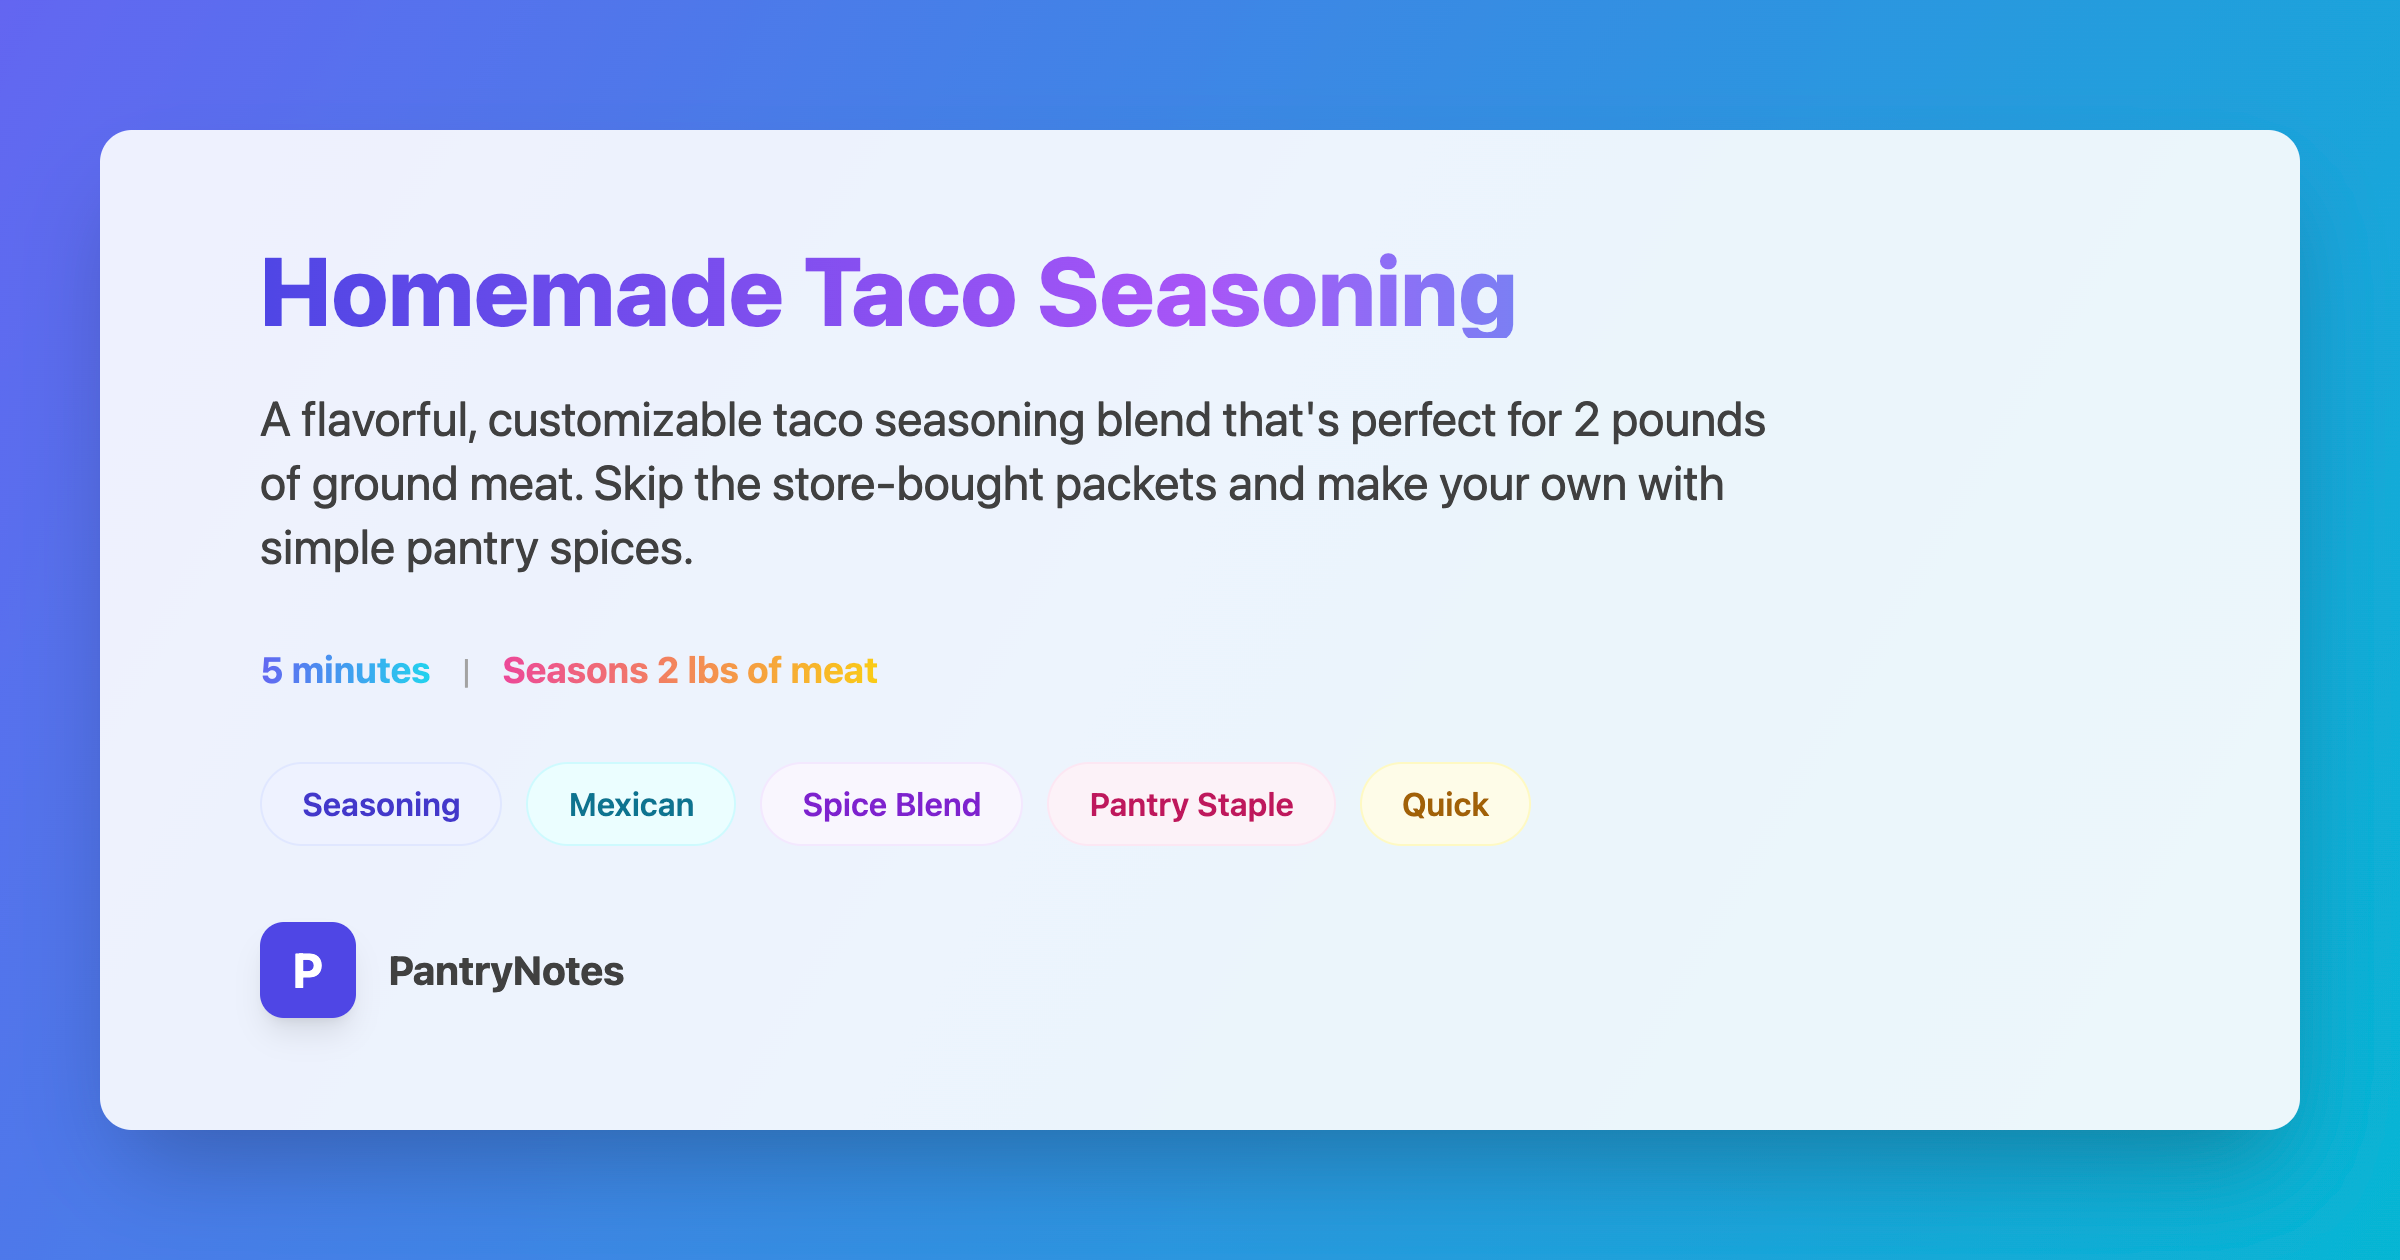
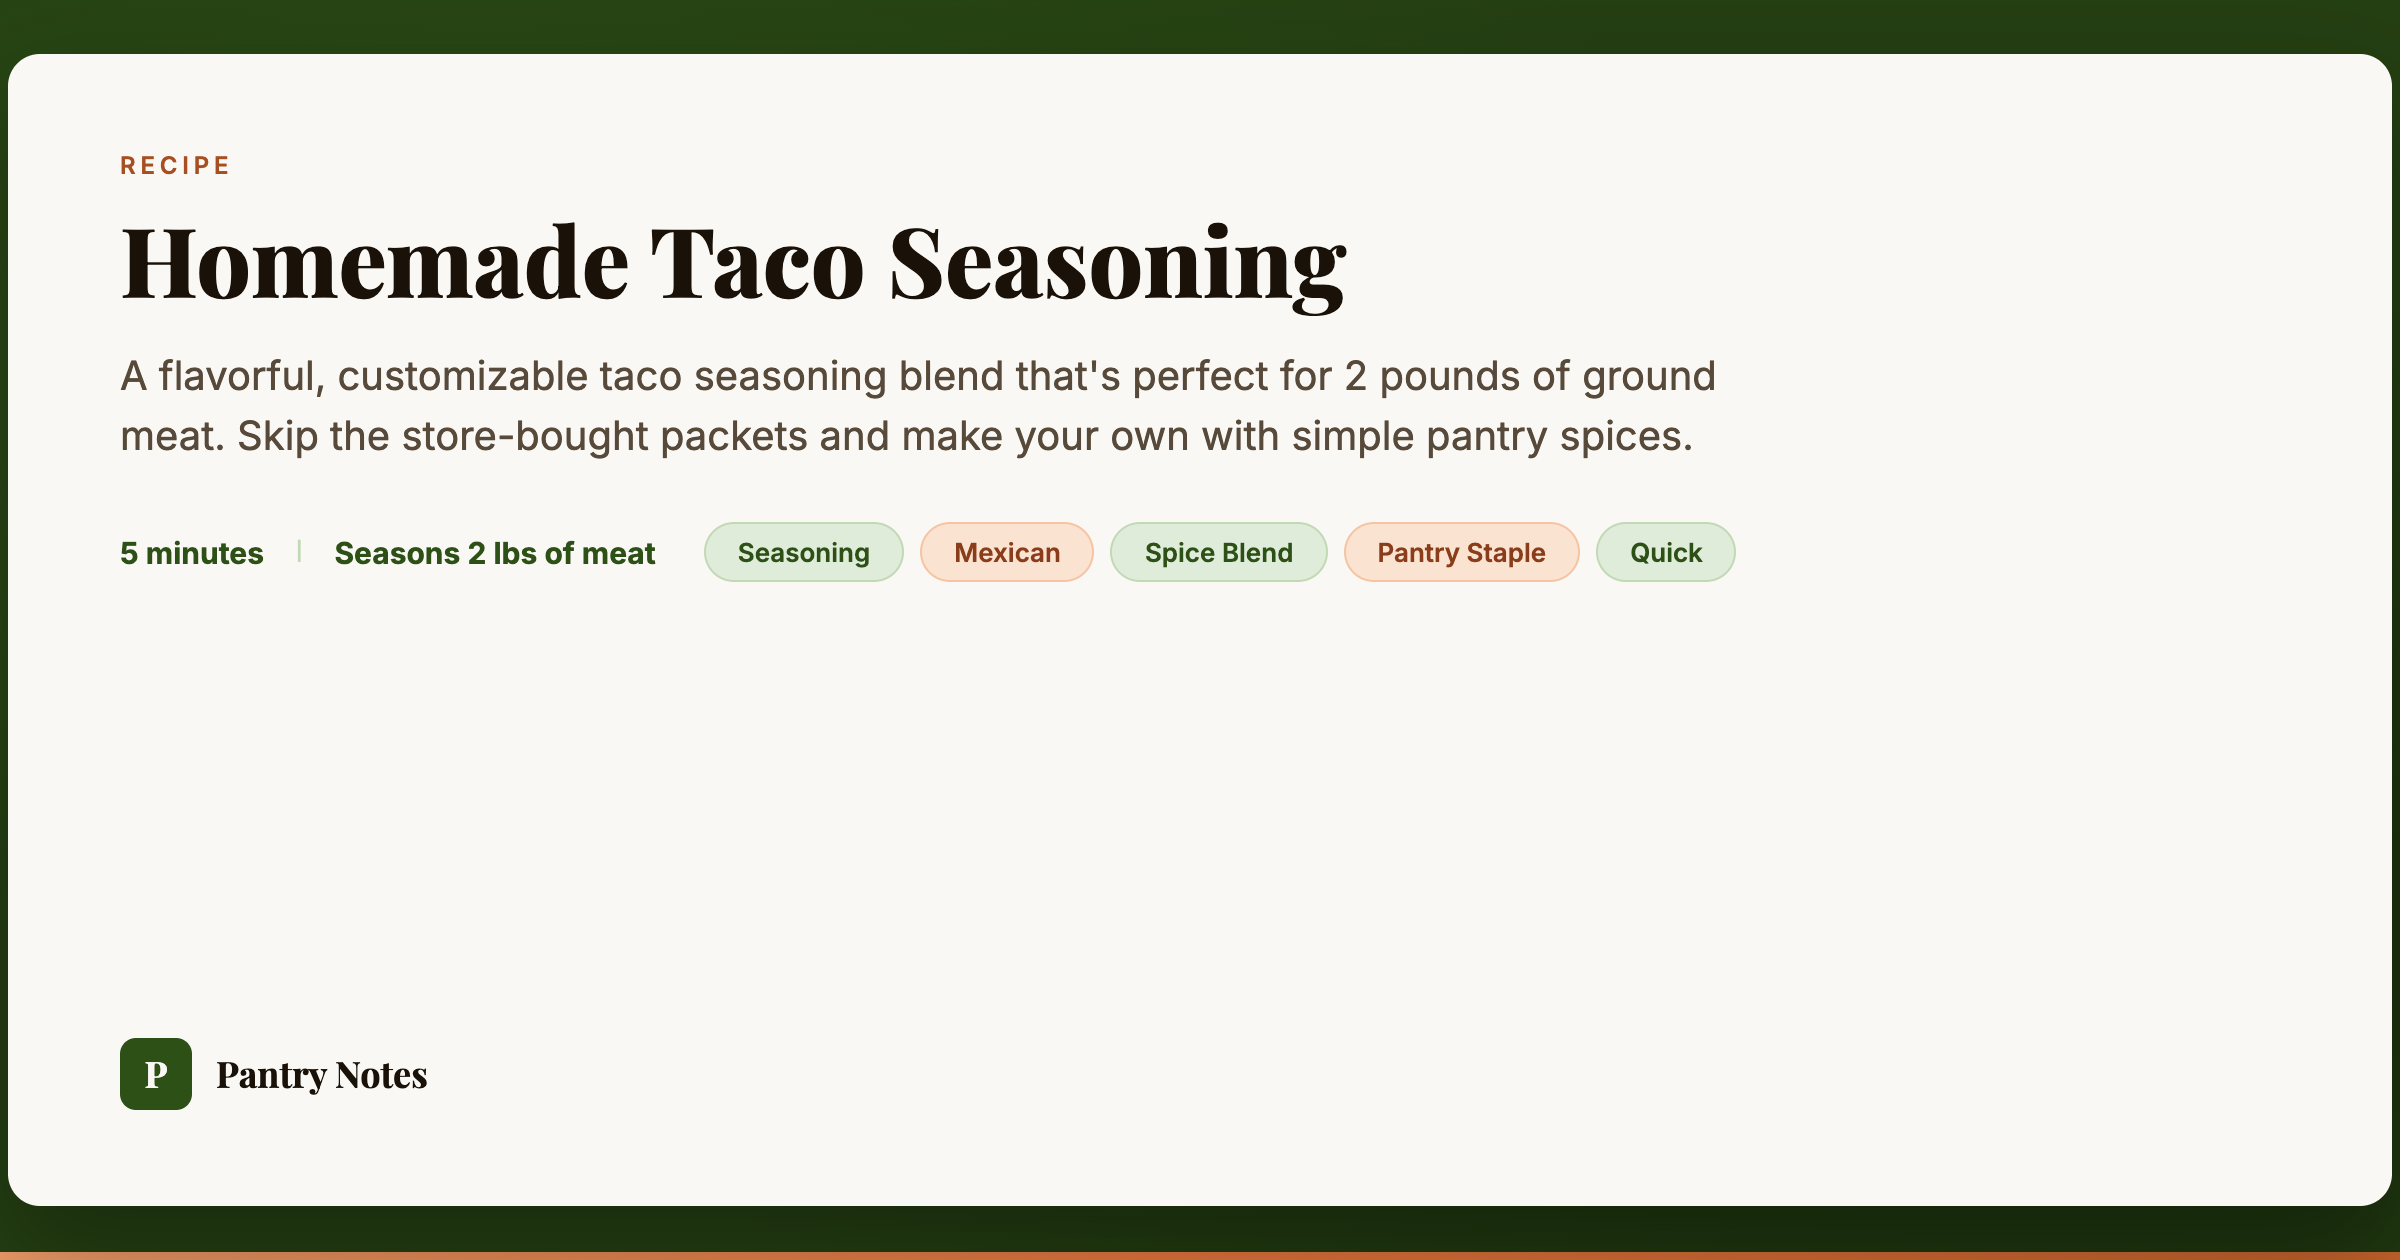
fix: update OG images to match warm forest green + terra theme
The social share preview images were using an old blue/indigo/cyan color
scheme. Redesigned both templates to use the site's forest green, cream,
and terra accent palette with Playfair Display typography.

diff --git a/recipe-preview-template.html b/recipe-preview-template.html
@@ -4,57 +4,79 @@
     <meta charset="UTF-8">
     <meta name="viewport" content="width=device-width, initial-scale=1.0">
     <title>Recipe OG Preview</title>
-    <script src="https://cdn.tailwindcss.com"></script>
+    <link rel="preconnect" href="https://fonts.googleapis.com">
+    <link rel="preconnect" href="https://fonts.gstatic.com" crossorigin>
+    <link href="https://fonts.googleapis.com/css2?family=Inter:wght@400;500;600;700&family=Playfair+Display:wght@700;800&display=swap" rel="stylesheet">
     <style>
-      body { margin: 0; }
+        body { margin: 0; }
     </style>
 </head>
 <body>
     <!-- OG Image Template - 1200x630px -->
-    <div class="flex items-center justify-center min-h-screen" style="width: 1200px; height: 630px; background: linear-gradient(120deg, #6366f1 0%, #06b6d4 100%);">
-        <div class="bg-white/90 rounded-2xl shadow-2xl w-[1100px] h-[500px] flex flex-col justify-center px-20 py-14">
+    <div style="width: 1200px; height: 630px; background-color: #243f12; display: flex; align-items: center; justify-content: center; position: relative; overflow: hidden;">
+        <!-- Subtle background accents -->
+        <div style="position: absolute; inset: 0; background: radial-gradient(ellipse at 20% 30%, rgba(45,80,22,0.8) 0%, transparent 50%), radial-gradient(ellipse at 85% 75%, rgba(15,30,7,0.5) 0%, transparent 50%);"></div>
+
+        <!-- Card -->
+        <div style="position: relative; z-index: 1; background-color: #faf8f5; border-radius: 16px; width: 1080px; min-height: 480px; padding: 48px 56px; display: flex; flex-direction: column; justify-content: center; box-shadow: 0 25px 50px rgba(0,0,0,0.3);">
+            <!-- Recipe label -->
+            <p style="font-family: 'Inter', sans-serif; font-size: 12px; font-weight: 600; text-transform: uppercase; letter-spacing: 0.2em; color: #a84f22; margin: 0 0 12px 0;">
+                Recipe
+            </p>
+
             <!-- Title -->
-            <h1 id="recipe-title" class="text-5xl font-extrabold mb-6 bg-gradient-to-r from-indigo-600 via-purple-500 to-cyan-400 bg-clip-text text-transparent">
+            <h1 id="recipe-title" style="font-family: 'Playfair Display', serif; font-size: 48px; font-weight: 800; color: #1a1208; margin: 0 0 16px 0; line-height: 1.15;">
                 Chicken Shawarma Bowls
             </h1>
+
             <!-- Description -->
-            <p id="recipe-description" class="text-2xl text-neutral-700 mb-8 max-w-3xl">
+            <p id="recipe-description" style="font-family: 'Inter', sans-serif; font-size: 20px; color: #574a3a; margin: 0 0 28px 0; line-height: 1.5; max-width: 800px;">
                 Flavorful Middle Eastern-inspired chicken bowls with aromatic spices, fresh vegetables, and wholesome grains.
             </p>
+
             <!-- Meta & Tags -->
-            <div class="flex flex-wrap items-center gap-8 mb-6">
-                <div class="flex items-center gap-4">
-                    <span id="cook-time" class="text-lg font-bold bg-gradient-to-r from-indigo-500 to-cyan-400 bg-clip-text text-transparent">45 minutes</span>
-                    <span class="text-neutral-400">|</span>
-                    <span id="servings" class="text-lg font-bold bg-gradient-to-r from-pink-500 to-yellow-400 bg-clip-text text-transparent">4-6 servings</span>
+            <div style="display: flex; flex-wrap: wrap; align-items: center; gap: 24px; margin-bottom: 28px;">
+                <div style="display: flex; align-items: center; gap: 16px;">
+                    <span id="cook-time" style="font-family: 'Inter', sans-serif; font-size: 15px; font-weight: 700; color: #2d5016;">45 minutes</span>
+                    <span style="color: #c1d9b5;">|</span>
+                    <span id="servings" style="font-family: 'Inter', sans-serif; font-size: 15px; font-weight: 700; color: #2d5016;">4-6 servings</span>
                 </div>
-                <div id="tags-container" class="flex flex-wrap gap-3">
-                    <span class="inline-flex items-center px-5 py-2 rounded-full text-base font-semibold bg-indigo-50 text-indigo-700 border border-indigo-100">
+                <div id="tags-container" style="display: flex; flex-wrap: wrap; gap: 8px;">
+                    <span style="display: inline-flex; align-items: center; padding: 6px 16px; border-radius: 9999px; font-family: 'Inter', sans-serif; font-size: 13px; font-weight: 600; background-color: #e0ecda; color: #2d5016; border: 1px solid #c1d9b5;">
                         Mediterranean
                     </span>
-                    <span class="inline-flex items-center px-5 py-2 rounded-full text-base font-semibold bg-cyan-50 text-cyan-700 border border-cyan-100">
+                    <span style="display: inline-flex; align-items: center; padding: 6px 16px; border-radius: 9999px; font-family: 'Inter', sans-serif; font-size: 13px; font-weight: 600; background-color: #fbe3d1; color: #8a3d1b; border: 1px solid #f6c4a3;">
                         Healthy
                     </span>
-                    <span class="inline-flex items-center px-5 py-2 rounded-full text-base font-semibold bg-purple-50 text-purple-700 border border-purple-100">
+                    <span style="display: inline-flex; align-items: center; padding: 6px 16px; border-radius: 9999px; font-family: 'Inter', sans-serif; font-size: 13px; font-weight: 600; background-color: #e0ecda; color: #2d5016; border: 1px solid #c1d9b5;">
                         Meal Prep
                     </span>
                 </div>
             </div>
+
             <!-- Footer/Brand -->
-            <div class="flex items-center gap-4 mt-auto">
-                <div class="w-12 h-12 bg-indigo-600 rounded-xl flex items-center justify-center shadow-lg">
-                    <span class="text-white font-bold text-2xl">P</span>
+            <div style="display: flex; align-items: center; gap: 12px; margin-top: auto;">
+                <div style="width: 36px; height: 36px; background-color: #2d5016; border-radius: 8px; display: flex; align-items: center; justify-content: center;">
+                    <span style="color: #faf8f5; font-family: 'Playfair Display', serif; font-weight: 700; font-size: 18px;">P</span>
                 </div>
-                <span class="text-xl font-bold text-neutral-700">PantryNotes</span>
+                <span style="font-family: 'Playfair Display', serif; font-size: 18px; font-weight: 700; color: #1a1208;">Pantry Notes</span>
             </div>
         </div>
+
+        <!-- Bottom accent bar -->
+        <div style="position: absolute; bottom: 0; left: 0; right: 0; height: 4px; background: linear-gradient(90deg, #ef9d6a, #e8763f, #c4622d);"></div>
     </div>
+
     <script>
-        // Function to update the preview with recipe data
+        // Tag style alternation: forest and terra
+        const tagStyles = [
+            { bg: '#e0ecda', color: '#2d5016', border: '#c1d9b5' },
+            { bg: '#fbe3d1', color: '#8a3d1b', border: '#f6c4a3' },
+        ];
+
         function updatePreview(recipe) {
             document.getElementById('recipe-title').textContent = recipe.title;
             document.getElementById('recipe-description').textContent = recipe.description;
-            // Cook time and servings
             const cookTimeEl = document.getElementById('cook-time');
             const servingsEl = document.getElementById('servings');
             cookTimeEl.textContent = recipe.cookTime;
@@ -64,20 +86,14 @@
             // Update tags
             const tagsContainer = document.getElementById('tags-container');
             tagsContainer.innerHTML = '';
-            const tagGradients = [
-                'bg-indigo-50 text-indigo-700 border-indigo-100',
-                'bg-cyan-50 text-cyan-700 border-cyan-100',
-                'bg-purple-50 text-purple-700 border-purple-100',
-                'bg-pink-50 text-pink-700 border-pink-100',
-                'bg-yellow-50 text-yellow-700 border-yellow-100',
-            ];
             recipe.tags.slice(0, 5).forEach((tag, index) => {
+                const style = tagStyles[index % tagStyles.length];
                 const tagElement = document.createElement('span');
-                tagElement.className = `inline-flex items-center px-5 py-2 rounded-full text-base font-semibold ${tagGradients[index % tagGradients.length]} border`;
+                tagElement.style.cssText = `display: inline-flex; align-items: center; padding: 6px 16px; border-radius: 9999px; font-family: 'Inter', sans-serif; font-size: 13px; font-weight: 600; background-color: ${style.bg}; color: ${style.color}; border: 1px solid ${style.border};`;
                 tagElement.textContent = tag;
                 tagsContainer.appendChild(tagElement);
             });
         }
     </script>
 </body>
-</html> 
+</html>

diff --git a/preview-template.html b/preview-template.html
@@ -4,35 +4,56 @@
     <meta charset="UTF-8">
     <meta name="viewport" content="width=device-width, initial-scale=1.0">
     <title>PantryNotes Preview</title>
-    <script src="https://cdn.tailwindcss.com"></script>
+    <link rel="preconnect" href="https://fonts.googleapis.com">
+    <link rel="preconnect" href="https://fonts.gstatic.com" crossorigin>
+    <link href="https://fonts.googleapis.com/css2?family=Inter:wght@400;500;600&family=Playfair+Display:wght@700;800&display=swap" rel="stylesheet">
+    <style>
+        body { margin: 0; }
+    </style>
 </head>
 <body>
-    <!-- Preview Image Template - 1200x630px -->
-    <div class="flex items-center justify-center bg-gray-50" style="width: 1200px; height: 630px;">
-        <div class="flex flex-col items-center justify-center text-center px-16 py-12">
-            <!-- Logo/Brand -->
-            <div class="flex items-center space-x-4 mb-8">
-                <div class="w-16 h-16 bg-blue-600 rounded-xl flex items-center justify-center shadow-lg">
-                    <span class="text-white font-bold text-2xl">P</span>
+    <!-- OG Image Template - 1200x630px -->
+    <div style="width: 1200px; height: 630px; background-color: #2d5016; display: flex; flex-direction: column; justify-content: center; align-items: center; position: relative; overflow: hidden;">
+        <!-- Subtle texture overlay -->
+        <div style="position: absolute; inset: 0; background: radial-gradient(ellipse at 30% 20%, rgba(58,102,35,0.6) 0%, transparent 60%), radial-gradient(ellipse at 80% 80%, rgba(15,30,7,0.4) 0%, transparent 50%);"></div>
+
+        <div style="position: relative; z-index: 1; text-align: center; padding: 0 80px;">
+            <!-- Subtitle label -->
+            <p style="font-family: 'Inter', sans-serif; font-size: 14px; font-weight: 600; text-transform: uppercase; letter-spacing: 0.2em; color: #ef9d6a; margin: 0 0 16px 0;">
+                A personal cookbook
+            </p>
+
+            <!-- Main Title -->
+            <h1 style="font-family: 'Playfair Display', serif; font-size: 72px; font-weight: 800; color: #faf8f5; margin: 0 0 24px 0; line-height: 1.1;">
+                Pantry Notes
+            </h1>
+
+            <!-- Description -->
+            <p style="font-family: 'Inter', sans-serif; font-size: 22px; color: rgba(250,248,245,0.7); margin: 0 0 48px 0; line-height: 1.6; max-width: 700px; display: inline-block;">
+                Real recipes, kept for keeps. From quick weeknight meals to long, slow weekends.
+            </p>
+
+            <!-- Stats row -->
+            <div style="display: flex; justify-content: center; align-items: center; gap: 48px;">
+                <div style="text-align: center;">
+                    <div style="font-family: 'Playfair Display', serif; font-size: 32px; font-weight: 700; color: #faf8f5;">5+</div>
+                    <div style="font-family: 'Inter', sans-serif; font-size: 11px; text-transform: uppercase; letter-spacing: 0.15em; color: rgba(250,248,245,0.5); font-weight: 600;">Recipes</div>
                 </div>
-                <div class="text-left">
-                    <h1 class="text-2xl font-bold text-gray-900">PantryNotes</h1>
-                    <p class="text-gray-600">Recipe Collection</p>
+                <div style="width: 1px; height: 32px; background-color: #4d8230;"></div>
+                <div style="text-align: center;">
+                    <div style="font-family: 'Playfair Display', serif; font-size: 32px; font-weight: 700; color: #faf8f5;">Tested</div>
+                    <div style="font-family: 'Inter', sans-serif; font-size: 11px; text-transform: uppercase; letter-spacing: 0.15em; color: rgba(250,248,245,0.5); font-weight: 600;">& Approved</div>
+                </div>
+                <div style="width: 1px; height: 32px; background-color: #4d8230;"></div>
+                <div style="text-align: center;">
+                    <div style="font-family: 'Playfair Display', serif; font-size: 32px; font-weight: 700; color: #ef9d6a;">♨</div>
+                    <div style="font-family: 'Inter', sans-serif; font-size: 11px; text-transform: uppercase; letter-spacing: 0.15em; color: rgba(250,248,245,0.5); font-weight: 600;">Made with love</div>
                 </div>
             </div>
-                
-                <!-- Main Content -->
-                <h2 class="flex flex-col text-4xl font-bold tracking-tight text-gray-900 mb-6">
-                    <span>My Personal Recipe Collection</span>
-                    <span class="text-blue-600">Curated Kitchen Favorites</span>
-                </h2>
-                
-                <!-- Subtitle -->
-                <p class="text-xl text-gray-600 max-w-2xl leading-relaxed">
-                    A collection of my favorite tested recipes, cooking techniques, and kitchen notes.
-                    Shared for inspiration and culinary exploration.
-                </p>
         </div>
+
+        <!-- Bottom bar -->
+        <div style="position: absolute; bottom: 0; left: 0; right: 0; height: 4px; background: linear-gradient(90deg, #ef9d6a, #e8763f, #c4622d);"></div>
     </div>
 </body>
-</html> 
+</html>
